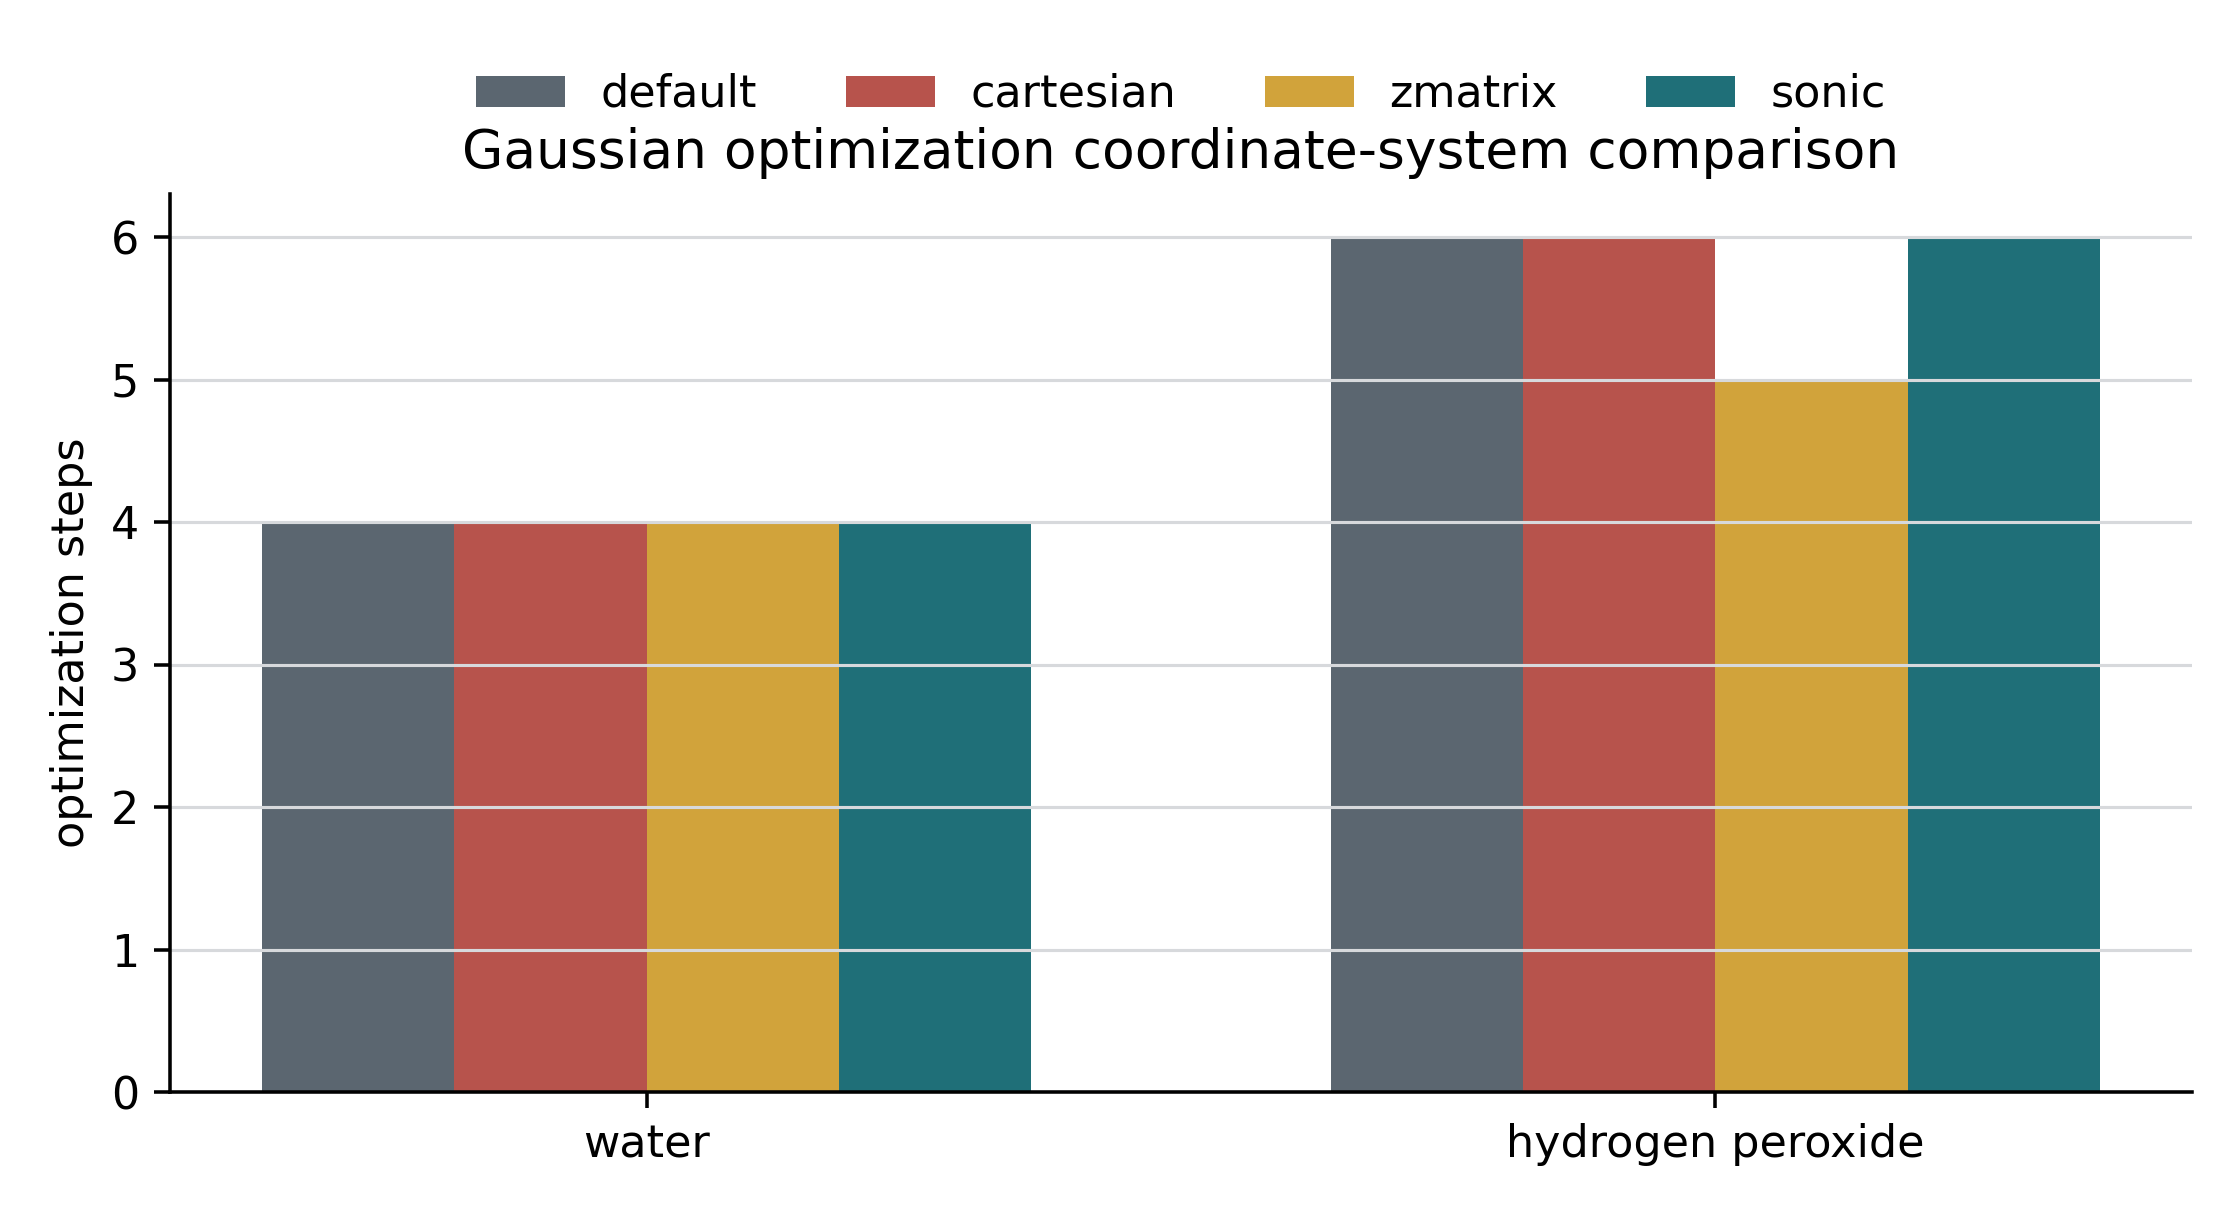
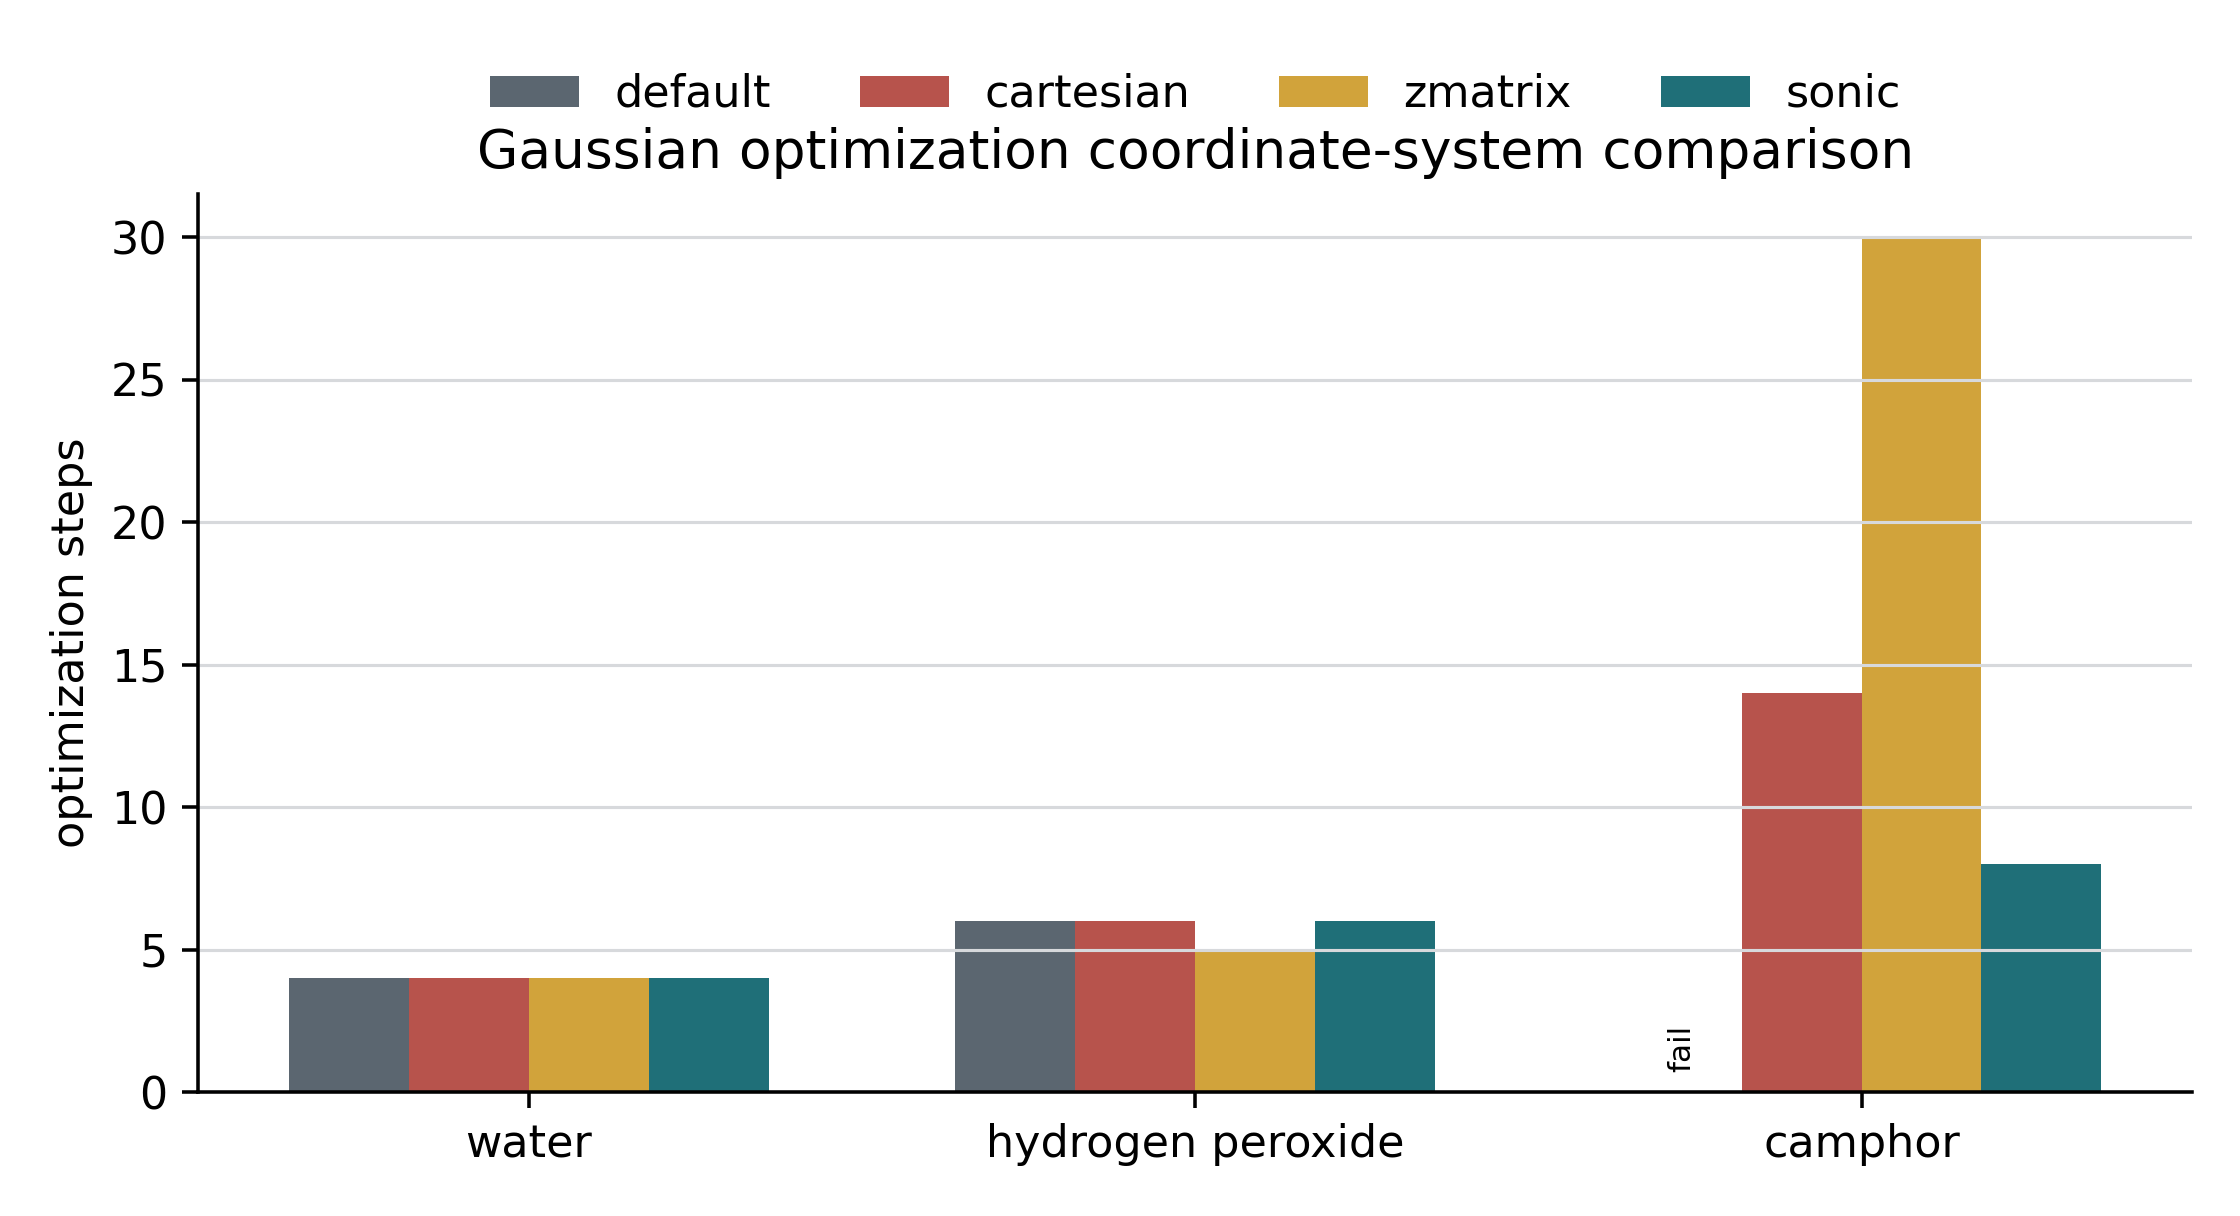
Refine SONIC naming and camphor optimization probe

diff --git a/main.tex b/main.tex
@@ -56,7 +56,7 @@ fragments.
 
 We present \SONIC\ (Symmetry-Oriented Natural Internal Coordinates) as a general
 construction of non-redundant, symmetry-adapted generalized internal
-coordinates.  The \TheONE\ implementation starts
+coordinates.  \TheONE\ starts
 from a frozen molecular state containing geometry, topology, atom equivalence,
 point-group operations, fragments and optional interaction centers.  It then
 builds chemically typed primitive families, protects special coordinates for
@@ -325,13 +325,22 @@ rings, point-group operations, optional fragments, optional interaction centers
 and continuous chemical perception descriptors.  If those data are already
 present in the \texttt{xyzin} file, \SONIC\ consumes them as part of the frozen
 state; otherwise the standalone builder constructs the missing topology,
-synthon and symmetry sections from Cartesian coordinates using the bundled
-MATRIX tools.
+synthon and symmetry sections from Cartesian coordinates using bundled
+perception tools.
 The output is a frozen \(\#\)GIC definition: primitive coordinate records,
 final generalized coordinates, coefficients, family labels, irreducible
 representations, total-symmetric subsets and the metadata required to
 reconstruct analytic \(\Bmat\) rows.  Downstream modules consume this state;
 they do not rebuild topology, ring sets or coordinate rows.
+
+For standalone use the same information can be supplied in a single
+\TheONE\ TOML input file with schema \texttt{matrix.the\_one.input.v1}.  The file
+contains one \texttt{[geometry]} table, either as an external coordinate path or
+as inline Cartesian coordinates, and one options table controlling
+symmetrization, \texttt{SYCART} export, fragment treatment, X--H policies,
+improper-dihedral compatibility and an optional reduced working subgroup.
+Thus a distributable input is one file with coordinates and construction
+options, while the generated \texttt{xyzin} remains the frozen audited state.
 
 The ORACLE name is used in the broader development environment, but the present
 coordinate engine is not tied to an ORACLE executable.  The perception layer
@@ -639,10 +648,11 @@ interpretation, but the active coordinate basis stores linear \(RPck\) rows
 because their \(\Bmat\) rows are analytic linear combinations of dihedral
 derivatives.\cite{CremerPople1975}
 
-The coefficient pattern follows the natural-coordinate construction used by
-Pulay and co-workers for ring deformations.  If \(s_j\) denotes a cyclic source
-list, such as the endocyclic valence angles or a torsional puckering list, the
-stored rows are real Fourier-like combinations
+The ring rows are a constructive extension of the natural-coordinate principle
+to cyclic source lists rather than a direct quotation of a published
+molecule-specific formula.  If \(s_j\) denotes such a list, for example the
+endocyclic valence angles or a torsional puckering list, the stored rows are
+real Fourier-like combinations
 \[
   Q_m^c = N_m\sum_{j=1}^{n} s_j\cos\frac{2\pi m(j-1)}{n},\qquad
   Q_m^s = N_m\sum_{j=1}^{n} s_j\sin\frac{2\pi m(j-1)}{n},
@@ -1265,6 +1275,10 @@ ring-puckering block \(\mathrm{A}_{1g}RPck001+\mathrm{E}_uRPck001/002\) &
 No hand-written \texttt{Gcyc}, \texttt{Ccyc} or \texttt{Scn0} input is supplied;
 the model closes rank \(48/48\) and exports a Gaussian-readable puckering
 model. \\
+Reduced path subgroup & Same cyclohexane source state rebuilt with a requested
+\(C_1\) working subgroup & The rank remains \(48/48\), while labels and
+totally symmetric export are computed in the reduced group; this is the
+intended path mode when a scan leaves the high-symmetry stratum. \\
 \bottomrule
 \end{tabular}
 \end{table}
@@ -1317,8 +1331,10 @@ Cubane & \(O_h\) & 42/42 & 42/42 & 3 & \(-303.781399977\) \\
 \end{table}
 
 The same export path was then compared directly with three standard Gaussian
-optimization choices on two small systems for which a hand Z matrix is
-available or unambiguous.  These calculations are not a benchmark of electronic
+optimization choices.  Two very small systems verify that no special handling
+is needed when the coordinate problem is simple; camphor adds a larger
+bridged-ring case with 75 vibrational degrees of freedom.  These calculations
+are not a benchmark of electronic
 structure theory or a claim that one coordinate choice always minimizes the
 iteration count.  They test the narrower point that \TheONE\ can generate a
 Gaussian-readable \SONIC\ coordinate model without manual GIC transcription and
@@ -1326,16 +1342,21 @@ that Gaussian can use it with the same convergence behavior as built-in
 coordinate choices.  At HF/STO-3G, water converges in four steps with default,
 Cartesian, hand Z-matrix and \SONIC\ \texttt{ReadAllGIC} coordinates.  Hydrogen
 peroxide converges in six steps with Gaussian default, Cartesian and \SONIC\
-coordinates and in five steps with the hand Z matrix.
+coordinates and in five steps with the hand Z matrix.  For camphor the
+automatically generated \SONIC\ block converges in eight steps, compared with
+14 Cartesian steps and 30 steps for a sequential Z matrix; the Gaussian DV
+redundant-internal default did not complete from this generated Cartesian input
+in the present run.
 
 \begin{figure}[htbp]
 \centering
 \includegraphics[width=0.72\linewidth]{figures/gaussian_coordinate_comparison.png}
 \caption{Gaussian DV HF/STO-3G optimization-step comparison for built-in
 Gaussian coordinates and automatically generated \SONIC\ \texttt{ReadAllGIC}
-coordinates.  The water and hydrogen-peroxide tests are deliberately small:
-their role is to verify solver consumption and input portability, not to rank
-coordinate strategies statistically.}
+coordinates.  Failed/non-completed runs are marked at the baseline.  The
+water and hydrogen-peroxide tests verify solver consumption and input
+portability; camphor probes a larger bridged-ring case where a naive Z matrix
+is much less efficient.}
 \label{fig:gaussian-coordinate-comparison}
 \end{figure}
 

diff --git a/scripts/run_gaussian_coordinate_comparison.py b/scripts/run_gaussian_coordinate_comparison.py
@@ -25,10 +25,11 @@ DEFAULT_GAUSSIAN = "gdv"
 SYSTEMS = (
     ("water", "h2ocart.inp", None),
     ("hydrogen_peroxide", "h2o2zmat.inp", "h2o2.inp"),
+    ("camphor", "camphor.inp", None),
 )
 MODES = ("default", "cartesian", "zmatrix", "sonic")
 ROUTES = {
-    "default": "#p hf/sto-3g opt=(maxcycle=80) nosymm",
+    "default": "#p hf/sto-3g opt=(redundant,maxcycle=80) nosymm",
     "cartesian": "#p hf/sto-3g opt=(cartesian,maxcycle=80) nosymm",
     "zmatrix": "#p hf/sto-3g opt=(z-matrix,maxcycle=80) nosymm",
     "sonic": "#p hf/sto-3g opt=(readallgic,maxcycle=80) nosymm",
@@ -68,7 +69,7 @@ def prepare_inputs() -> None:
     add_matrix_packages_to_path()
     from matrix_chem import preprocess_to_enriched_xyz, read_enriched_xyz, write_validation_section
     from matrix_gaussian import write_gicforge_gaussian_input
-    from matrix_neo import gaussian_gic_lines_from_xyzin, write_gicforge_build_sections
+    from matrix_neo import write_gicforge_build_sections
 
     source_root = MATRIX_ROOT / "tests" / "fixtures" / "test_molecules" / "molecules"
     for name, source_name, zmat_source_name in SYSTEMS:
@@ -91,11 +92,6 @@ def prepare_inputs() -> None:
                 ROUTES["zmatrix"],
                 f"{name} Z-matrix coordinate comparison",
             )
-        unsupported = [
-            line for line in gaussian_gic_lines_from_xyzin(xyzin) if "U(" in line or "OuPl" in line
-        ]
-        if unsupported:
-            raise RuntimeError(f"{name} has out-of-plane GIC lines incompatible with this G16 test")
         write_gicforge_gaussian_input(
             xyzin,
             target_dir / f"{name}_sonic.gjf",
@@ -192,7 +188,7 @@ def run_gaussian(executable: str) -> None:
             input_path = target_dir / f"{name}_{mode}.gjf"
             for suffix in (".log", ".chk"):
                 (target_dir / f"{name}_{mode}{suffix}").unlink(missing_ok=True)
-            subprocess.run([executable, input_path.name], cwd=target_dir, env=env, check=True)
+            subprocess.run([executable, input_path.name], cwd=target_dir, env=env, check=False)
 
 
 def summarize_results() -> dict[str, object]:
@@ -261,7 +257,12 @@ def plot_results(results: dict[str, object]) -> None:
         "sonic": "#1f6f78",
     }
     for offset, mode in enumerate(MODES):
-        ax.bar(x + (offset - 1.5) * width, values[mode], width, label=mode, color=colors[mode])
+        xpos = x + (offset - 1.5) * width
+        ax.bar(xpos, values[mode], width, label=mode, color=colors[mode])
+        for xi, system in zip(xpos, systems):
+            row = next(row for row in system["modes"] if row["mode"] == mode)
+            if not row["normal_termination"]:
+                ax.text(xi, 0.7, "fail", ha="center", va="bottom", rotation=90, fontsize=7)
     ax.set_xticks(x, labels)
     ax.set_ylabel("optimization steps")
     ax.set_title("Gaussian optimization coordinate-system comparison")
